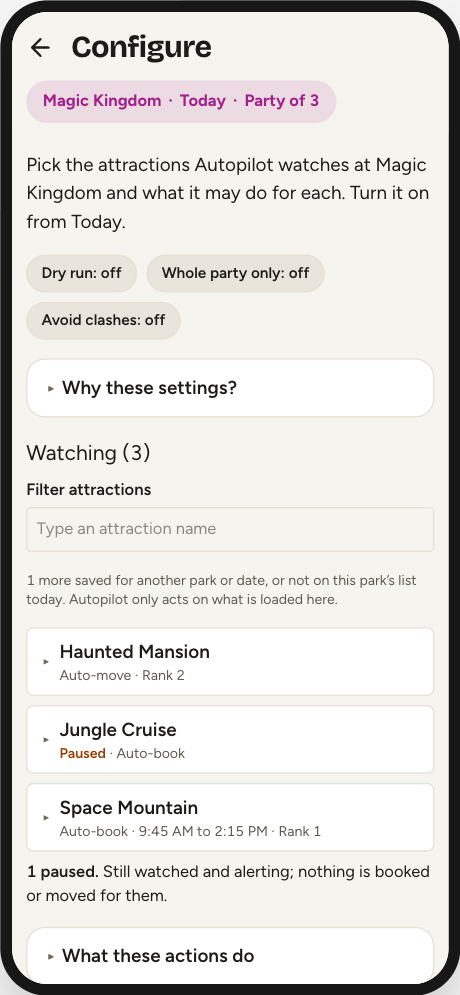
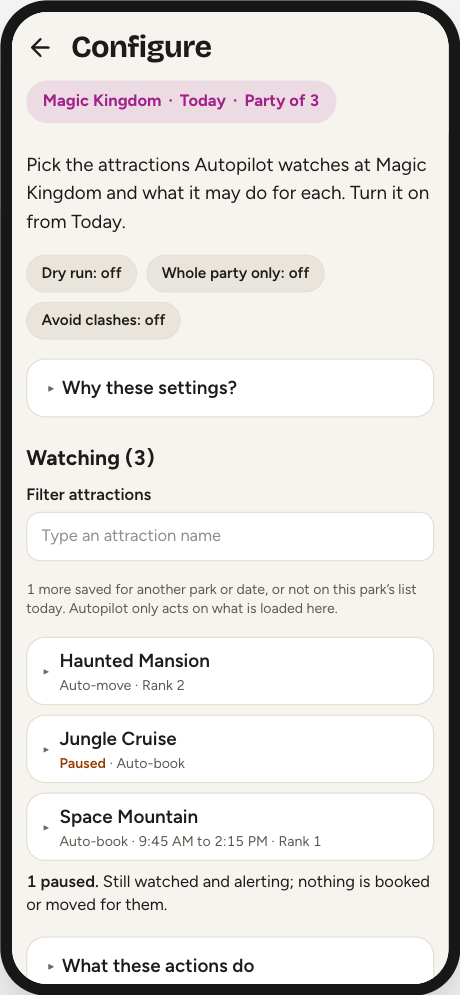
New look, slice 8: Configure
Configure brought in line with the screens already redrawn. Looks only:
the same sections, words and taps.

- Its section headings in bold, as Today's are, so "Watching" reads the
  same on both screens.
- The list to add from as one card of rows, each still the same Watch
  button, without its own border; the not-on-today's-list rows as a
  card too.
- Rounder target cards, filter box, notices and undo strip, as Today's.

Checked in the harness at 360 px: the add list, and that a row still
adds its ride, which opens marked just added. The guide's Configure
screenshots are retaken.

Changed region(s): [[0.0609, 0.4362, 0.9435, 0.997]]

diff --git a/src/components/ll/screens/Configure.tsx b/src/components/ll/screens/Configure.tsx
@@ -208,7 +208,7 @@ export default function Configure({
         />
       </div>
       {dryRun && (
-        <p className="mt-2 rounded-sm bg-yellow-100 p-2 text-sm font-semibold text-yellow-900">
+        <p className="mt-2 rounded-2xl bg-yellow-100 p-3.5 text-sm font-semibold text-yellow-900">
           Dry run is on: every check runs and the log says what would have
           happened, but nothing is booked, moved or swapped.
         </p>
@@ -234,17 +234,19 @@ export default function Configure({
 
       {absentTargets.length > 0 && (
         <>
-          <h3>Not on today&rsquo;s list ({absentTargets.length})</h3>
+          <h3 className="mt-5 mb-2 font-bold">
+            Not on today&rsquo;s list ({absentTargets.length})
+          </h3>
           <p className="text-sm text-gray-600">
             These saved targets are not in the current tipboard, so Autopilot
             cannot watch or book them today. Disney can use a seasonal version
             or change an attraction ID.
           </p>
-          <ul>
+          <ul className="mt-2 divide-y divide-gray-200 overflow-hidden rounded-[18px] border border-gray-300 bg-white px-3">
             {absentTargets.map(target => (
               <li
                 key={target.experienceId}
-                className="flex items-center gap-2 py-1"
+                className="flex items-center gap-2 py-2"
               >
                 <span className="flex-1">
                   {target.name ?? target.experienceId}
@@ -266,7 +268,7 @@ export default function Configure({
       )}
 
       {unknownExperienceIds && unknownExperienceIds.length > 0 && (
-        <p className="mt-3 rounded-sm bg-red-100 p-2 text-sm font-semibold text-red-900">
+        <p className="mt-3 rounded-2xl bg-red-100 p-3.5 text-sm font-semibold text-red-900">
           Disney is listing {unknownExperienceIds.length} attraction
           {unknownExperienceIds.length === 1 ? '' : 's'} this build does not
           recognise ({unknownExperienceIds.join(', ')}). They cannot be watched,
@@ -275,11 +277,11 @@ export default function Configure({
         </p>
       )}
 
-      <h3>Watching ({targetsHere.length})</h3>
+      <h3 className="mt-5 mb-2 font-bold">Watching ({targetsHere.length})</h3>
       <label className="mt-2 block text-sm">
         <span className="font-semibold">Filter attractions</span>
         <input
-          className="mt-1 block w-full rounded-sm border border-gray-300 p-2"
+          className="mt-1 block w-full rounded-xl border border-gray-300 bg-white px-3 py-2.5"
           value={filterText}
           onChange={event => setFilterText(event.target.value)}
           placeholder="Type an attraction name"
@@ -319,7 +321,7 @@ export default function Configure({
       {removed.length > 0 && (
         <div
           role="status"
-          className="mt-2 flex flex-col gap-1 rounded-sm bg-gray-100 p-2 text-sm"
+          className="mt-2 flex flex-col gap-1 rounded-2xl bg-gray-100 p-3 text-sm"
         >
           {removed.map(entry => (
             <div
@@ -419,7 +421,7 @@ export default function Configure({
         </Disclosure>
       )}
 
-      <h3>Lightning Lane attractions</h3>
+      <h3 className="mt-5 mb-2 font-bold">Lightning Lane attractions</h3>
       {watchable.length === 0 ? (
         <div className="text-sm text-gray-600">
           <p className="my-0">No attractions loaded yet for this park.</p>
@@ -430,14 +432,17 @@ export default function Configure({
           </div>
         </div>
       ) : (
-        <ul>
+        <ul className="divide-y divide-gray-200 overflow-hidden rounded-[18px] border border-gray-300 bg-white">
           {unwatched.map(exp => (
-            <li key={exp.id} className="py-0.5">
+            <li key={exp.id}>
               {/* The whole row adds, with a plus: the star here meant Watch,
-                  on the LL tab Favourite, and in the list above Remove. */}
+                  on the LL tab Favourite, and in the list above Remove. One
+                  card of rows, as the tip board lists its attractions. */}
               <Button
                 title={`Watch ${exp.name}`}
-                className="w-full justify-start! gap-2 text-left"
+                color="bg-white text-ink"
+                border="border-0"
+                className="min-h-11 w-full justify-start! gap-2 rounded-none! px-3! text-left"
                 onClick={() => {
                   addTarget({ experienceId: exp.id });
                   setJustAdded(exp.id);

diff --git a/src/components/ll/TargetCard.tsx b/src/components/ll/TargetCard.tsx
@@ -256,7 +256,7 @@ export default function TargetCard({
   return (
     <details
       ref={cardRef}
-      className="group rounded-md border border-gray-300 bg-white"
+      className="group rounded-2xl border border-gray-300 bg-white"
       open={defaultOpen || undefined}
     >
       <summary className="flex cursor-pointer list-none items-center gap-2 px-3 py-2 [&::-webkit-details-marker]:hidden">

diff --git a/docs/NEW-LOOK.md b/docs/NEW-LOOK.md
@@ -70,6 +70,7 @@ park. Each slice keeps all of them.
 | 5 | Tip board | Book and Drop as cards, quiet section labels, the attractions as a card, return times as chips in the park's colour | merged (#5) |
 | 6 | Times | each land as a card under a quiet label in its own colour, its kinds as small labels; waits and show times in soft boxes in the display face, with digits that keep their width; the show-times screen as a card | in review |
 | 7 | Plans | each day as a quiet label that stays on screen while its plans scroll, on the page's own paper; the day's plans as one card with hairline rules | in review |
+| 8 | Configure | its section headings in bold, as Today's are; the add list and the not-on-today's-list list as cards of rows, the add rows the same buttons without their borders; rounder target cards, filter box, notices and undo strip | in review |
 
 **One deliberate departure from the mockups.** They put Today's main actions in
 a bar along the bottom. The switch stays in the page instead: a bar there sits
@@ -82,8 +83,8 @@ switch would be a new filter, not a new look, so it is not part of these
 slices. The mockups' single tappable park, date and party chip likewise: the
 header keeps its separate controls until that is built as behaviour.
 
-**Not yet redrawn** beyond what the foundation gave them: Configure, Plan Check,
-Activity, Timeline, the booking screens and Settings. They already have the palette, type, header, tab bar and buttons.
+**Not yet redrawn** beyond what the foundation gave them: Plan Check, Activity,
+Timeline, the booking screens and Settings. They already have the palette, type, header, tab bar and buttons.
 
 **The user guide's screenshots** show the new look. All 21 were retaken
 together once the new look's slices and the usability work had landed, from the
